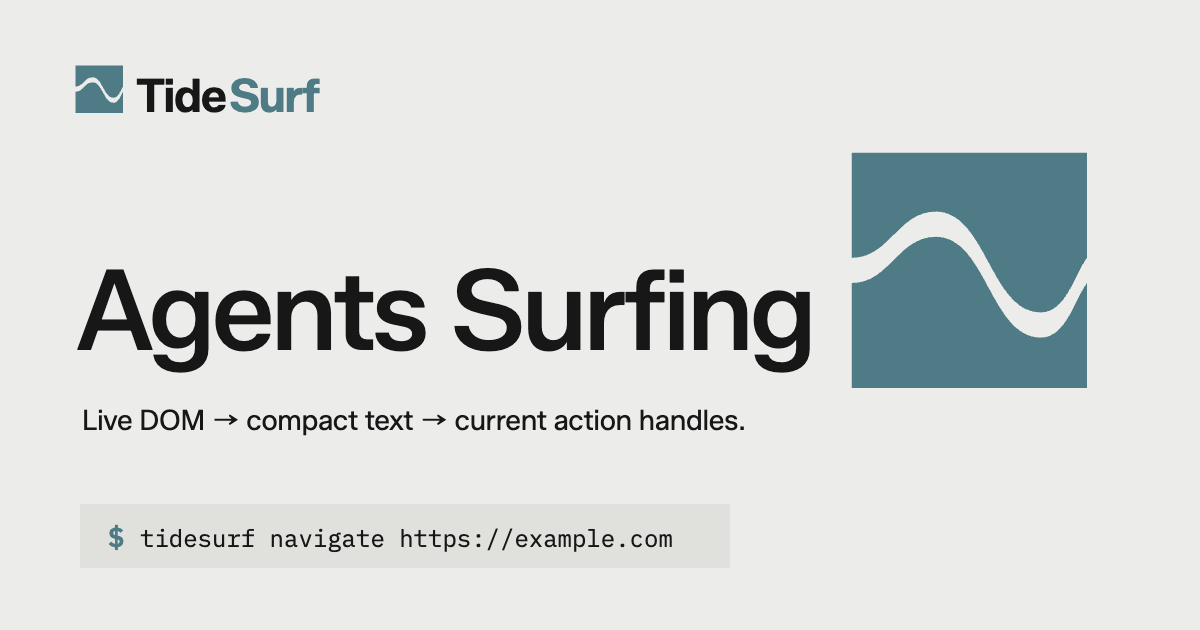
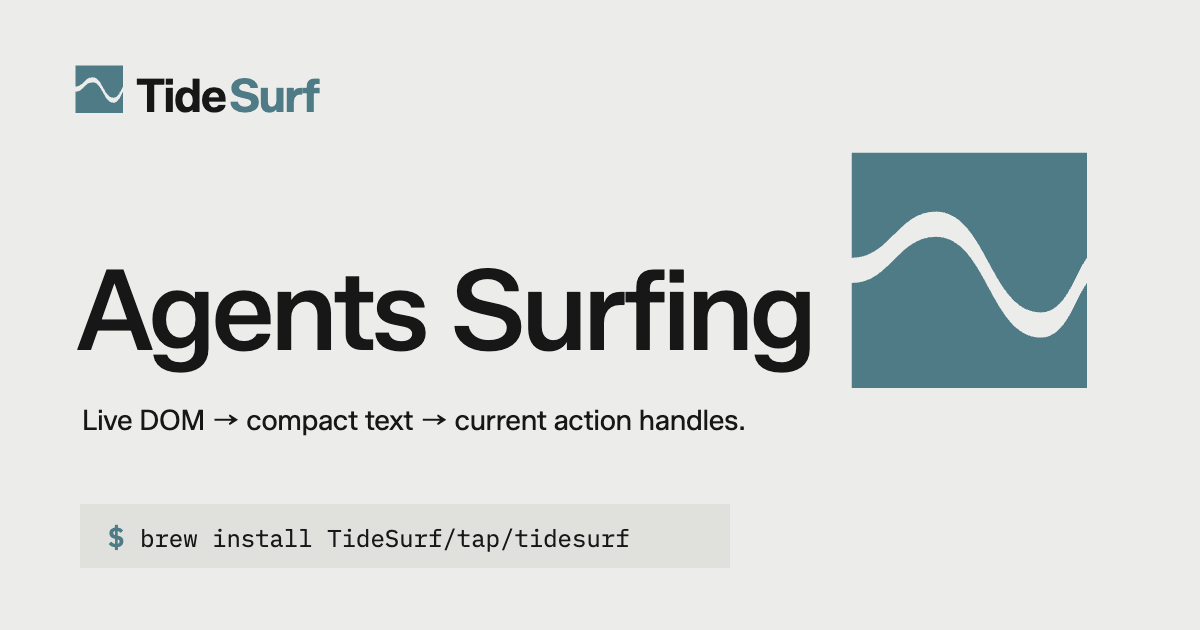
design(landing)+perf(docs): install-first hero, docs pre-rendering
Landing: the hero command now targets future users, cycling the
Homebrew, npm, and Bun install commands with a paused-on-hover roll and
a brand-hued rainbow halo on hover, tuned per theme and disabled under
reduced motion. The copy button always copies the visible command, and
the social preview shows the Homebrew install. check-doc-sync pins the
brew-led hero and requires the rotation to carry the canonical install
commands.

Docs: markdown compiles to HTML at build time through a Vite plugin, so
the client ships no parser and pages render without parse work; search
runs over plain text derived from the rendered pages. The bundle drops
from 55.7 to 45.9 KB gzipped. Font loading now includes the 600 weight
the docs brand uses, and the landing stops requesting the unused Gothic
A1 family.

Also removes a joke comment in version.ts and normalizes comment prose.

Claude-Session: https://claude.ai/code/session_01VjpEq9hvJBtS6FgV6f6NAM

Changed region(s): [[0.0925, 0.8444, 0.555, 0.8746]]

diff --git a/website/docs/src/main.ts b/website/docs/src/main.ts
@@ -1,4 +1,3 @@
-import { marked } from "marked";
 import "./style.css";
 import { initScrollTone } from "../../shared/scroll-tone";
 import { initTheme, prefersReducedMotion, safeStorageGet, safeStorageSet } from "../../shared/theme";
@@ -87,6 +86,21 @@ const mobileMedia = window.matchMedia(MOBILE_QUERY);
 let currentLang: Language = "en";
 let currentPageName = DEFAULT_PAGE;
 let pageMap: Record<string, string> = {};
+let searchIndex: Record<string, { title: string; text: string }> | null = null;
+
+function ensureSearchIndex(): Record<string, { title: string; text: string }> {
+  if (searchIndex) return searchIndex;
+  const parser = new DOMParser();
+  const index: Record<string, { title: string; text: string }> = {};
+  Object.entries(pageMap).forEach(([name, html]) => {
+    const doc = parser.parseFromString(html, "text/html");
+    const title = doc.querySelector("h1")?.textContent?.trim() || name;
+    const text = (doc.body.textContent ?? "").replace(/\s+/g, " ").trim();
+    index[name] = { title, text };
+  });
+  searchIndex = index;
+  return index;
+}
 let tocScrollFrame = 0;
 let initialNavigation = true;
 let removeTocTracking: (() => void) | null = null;
@@ -115,7 +129,7 @@ function translate(key: string): string {
 async function loadContent(): Promise<void> {
   const modules = import.meta.glob("../content/*.md", {
     eager: true,
-    query: "?raw",
+    query: "?html",
     import: "default",
   });
 
@@ -364,14 +378,13 @@ function renderMissingPage(): void {
 }
 
 function renderPage(pageName: string): void {
-  const markdown = pageMap[pageName];
-  if (!markdown) {
+  const html = pageMap[pageName];
+  if (!html) {
     renderMissingPage();
     return;
   }
 
   currentPageName = pageName;
-  const html = marked.parse(markdown, { async: false }) as string;
   contentEl.replaceChildren(sanitizeHtmlFragment(html));
   contentEl.setAttribute("aria-busy", "false");
   contentEl.lang = "en";
@@ -489,22 +502,16 @@ function initSearch(): void {
     }
 
     const matches: SearchEntry[] = [];
-    Object.entries(pageMap).forEach(([name, markdown]) => {
-      const lower = markdown.toLowerCase();
+    Object.entries(ensureSearchIndex()).forEach(([name, page]) => {
+      const lower = page.text.toLowerCase();
       const index = lower.indexOf(query);
       if (index < 0) return;
 
-      const title = markdown.match(/^#\s+(.+)/m)?.[1] ?? name;
       const start = Math.max(0, index - 42);
-      const end = Math.min(markdown.length, index + query.length + 72);
-      const body = markdown
-        .slice(start, end)
-        .replace(/<[^>]+>/g, " ")
-        .replace(/[#*`_>\n]/g, " ")
-        .replace(/\s+/g, " ")
-        .trim();
-      const snippet = `${start > 0 ? "…" : ""}${body}${end < markdown.length ? "…" : ""}`;
-      matches.push({ name, title, snippet });
+      const end = Math.min(page.text.length, index + query.length + 72);
+      const body = page.text.slice(start, end).trim();
+      const snippet = `${start > 0 ? "…" : ""}${body}${end < page.text.length ? "…" : ""}`;
+      matches.push({ name, title: page.title, snippet });
     });
     renderSearchResults(results, matches);
   });

diff --git a/website/landing/src/style.css b/website/landing/src/style.css
@@ -119,7 +119,7 @@ pre {
   font-size: 0.86rem;
 }
 
-/* Optical lift: the all-lowercase npm wordmark reads ~1px low next to cap-height labels. */
+/* Optical lift: the lowercase npm wordmark sits one pixel low next to cap-height labels. */
 .topnav-links a[href*="npmjs"],
 .footer-links a[href*="npmjs"] {
   padding-block: calc(0.2rem - 1px) calc(0.2rem + 1px);
@@ -218,7 +218,88 @@ pre {
   gap: 0.65rem;
   padding-left: 0.9rem;
   color: var(--ink);
-  background: color-mix(in srgb, var(--paper-2) 86%, transparent);
+  position: relative;
+  isolation: isolate;
+}
+
+/* Backdrop sits above the glow so the halo shows only at the edges. */
+.install::after {
+  content: "";
+  position: absolute;
+  inset: 0;
+  z-index: -1;
+  background: color-mix(in srgb, var(--paper-2) 92%, transparent);
+}
+
+/* Hover halo: brand-hued rainbow ring behind the install command. */
+@property --glow-angle {
+  syntax: "<angle>";
+  inherits: false;
+  initial-value: 0deg;
+}
+
+.install::before {
+  content: "";
+  position: absolute;
+  inset: -6px;
+  z-index: -1;
+  background: conic-gradient(
+    from var(--glow-angle),
+    var(--c-rust),
+    var(--c-gold),
+    var(--c-green),
+    var(--c-teal),
+    #6e56cf,
+    var(--c-rust)
+  );
+  filter: blur(8px) saturate(170%);
+  opacity: 0;
+  transition: opacity 240ms ease;
+}
+
+.install:hover::before,
+.install:focus-within::before {
+  opacity: 0.9;
+  animation: glow-spin 3.5s linear infinite;
+}
+
+[data-theme="light"] .install::before {
+  mix-blend-mode: multiply;
+  filter: blur(8px) saturate(220%);
+}
+
+@keyframes glow-spin {
+  to {
+    --glow-angle: 360deg;
+  }
+}
+
+.install code {
+  display: inline-block;
+  transition: transform 190ms ease-out, opacity 190ms ease-out;
+}
+
+.install code.roll-out {
+  transform: translateY(-0.6em);
+  opacity: 0;
+  transition: transform 190ms ease-in, opacity 190ms ease-in;
+}
+
+.install code.roll-in {
+  transform: translateY(0.6em);
+  opacity: 0;
+  transition: none;
+}
+
+@media (prefers-reduced-motion: reduce), (prefers-reduced-data: reduce) {
+  .install::before {
+    animation: none;
+  }
+
+  .install code,
+  .install code.roll-out {
+    transition: none;
+  }
 }
 
 .install .prompt {

diff --git a/website/landing/index.html b/website/landing/index.html
@@ -24,7 +24,7 @@
         <link rel="preconnect" href="https://fonts.googleapis.com" />
         <link rel="preconnect" href="https://fonts.gstatic.com" crossorigin />
         <link
-            href="https://fonts.googleapis.com/css2?family=Zalando+Sans:wght@400;500;600&family=Gothic+A1:wght@400;500;600&family=IBM+Plex+Mono:wght@400;500&display=swap"
+            href="https://fonts.googleapis.com/css2?family=Zalando+Sans:wght@400;500;600&family=IBM+Plex+Mono:wght@400;500&display=swap"
             rel="stylesheet"
         />
         <link rel="icon" type="image/svg+xml" href="/favicon.svg" />
@@ -57,8 +57,8 @@
                 <div class="hero-actions" aria-label="Primary actions">
                     <div class="install">
                         <span class="prompt" aria-hidden="true">$</span>
-                        <code id="install-command-text">tidesurf navigate https://example.com</code>
-                        <button type="button" class="copy-btn patch-control" id="install-copy-btn" data-copy="tidesurf navigate https://example.com" aria-label="Copy CLI command">
+                        <code id="install-command-text">brew install TideSurf/tap/tidesurf</code>
+                        <button type="button" class="copy-btn patch-control" id="install-copy-btn" data-copy="brew install TideSurf/tap/tidesurf" aria-label="Copy install command">
                             <svg class="icon-copy" viewBox="0 0 16 16" width="15" height="15" fill="none" stroke="currentColor" stroke-width="1.5" stroke-linecap="round" stroke-linejoin="round" aria-hidden="true"><rect x="5.5" y="5.5" width="8" height="8" rx="1.5"/><path d="M3.5 10.5H3a1 1 0 0 1-1-1V3a1 1 0 0 1 1-1h6.5a1 1 0 0 1 1 1v.5"/></svg>
                             <svg class="icon-check" viewBox="0 0 16 16" width="15" height="15" fill="none" stroke="currentColor" stroke-width="1.8" stroke-linecap="round" stroke-linejoin="round" aria-hidden="true"><path d="M3.5 8.5l3 3 6-6.5"/></svg>
                             <span class="copy-status visually-hidden" aria-live="polite"></span>

diff --git a/website/landing/src/main.ts b/website/landing/src/main.ts
@@ -2,6 +2,44 @@ import "./style.css";
 import { initScrollTone } from "../../shared/scroll-tone";
 import { initTheme, prefersReducedMotion, reducedMotionQuery } from "../../shared/theme";
 
+const INSTALL_COMMANDS = [
+  "brew install TideSurf/tap/tidesurf",
+  "npm install --global @tidesurf/core",
+  "bun add --global @tidesurf/core",
+];
+
+function initInstallRotator(): void {
+  const box = document.querySelector<HTMLElement>(".install");
+  const text = document.getElementById("install-command-text");
+  const copy = document.querySelector<HTMLButtonElement>("#install-copy-btn");
+  if (!box || !text || !copy || prefersReducedMotion()) return;
+
+  let index = 0;
+  let paused = false;
+  const setPaused = (value: boolean) => () => {
+    paused = value;
+  };
+  box.addEventListener("pointerenter", setPaused(true));
+  box.addEventListener("pointerleave", setPaused(false));
+  box.addEventListener("focusin", setPaused(true));
+  box.addEventListener("focusout", setPaused(false));
+
+  setInterval(() => {
+    if (paused || document.hidden) return;
+    index = (index + 1) % INSTALL_COMMANDS.length;
+    const next = INSTALL_COMMANDS[index];
+    text.classList.add("roll-out");
+    setTimeout(() => {
+      text.textContent = next;
+      copy.dataset.copy = next;
+      text.classList.remove("roll-out");
+      text.classList.add("roll-in");
+      void text.offsetHeight;
+      text.classList.remove("roll-in");
+    }, 190);
+  }, 3200);
+}
+
 function initCopyButtons(): void {
   document.querySelectorAll<HTMLButtonElement>("[data-copy]").forEach((button) => {
     button.addEventListener("click", async () => {
@@ -261,6 +299,7 @@ function init(): void {
   initTheme();
   initScrollTone();
   initCopyButtons();
+  initInstallRotator();
   initWaves();
 }
 

diff --git a/website/docs/vite.config.ts b/website/docs/vite.config.ts
@@ -1,4 +1,21 @@
-import { defineConfig } from "vite";
+import { readFileSync } from "node:fs";
+import { defineConfig, type Plugin } from "vite";
+import { marked } from "marked";
+
+const HTML_QUERY = "?html";
+
+/* Markdown compiles to HTML at build time; the client ships no parser. */
+function markdownToHtml(): Plugin {
+  return {
+    name: "tidesurf:markdown-to-html",
+    enforce: "pre",
+    load(id) {
+      if (!id.endsWith(`.md${HTML_QUERY}`)) return null;
+      const markdown = readFileSync(id.slice(0, -HTML_QUERY.length), "utf8");
+      return `export default ${JSON.stringify(marked.parse(markdown, { async: false }))};`;
+    },
+  };
+}
 
 export default defineConfig({
   root: ".",
@@ -7,4 +24,5 @@ export default defineConfig({
     outDir: "dist",
   },
   assetsInclude: ["**/*.md"],
+  plugins: [markdownToHtml()],
 });

diff --git a/scripts/check-doc-sync.ts b/scripts/check-doc-sync.ts
@@ -459,9 +459,16 @@ const hero = landingHtml.match(/<h1 id="hero-title">([^<]+)<\/h1>/)?.[1];
 const heroCommand = landingHtml.match(/data-copy="([^"]+)"/)?.[1];
 check(hero === "Agents Surfing", "landing hero must be exactly Agents Surfing");
 check(
-  heroCommand === "tidesurf navigate https://example.com",
-  "landing command must use the installed TideSurf CLI"
+  heroCommand === "brew install TideSurf/tap/tidesurf",
+  "landing command must lead with the canonical Homebrew install"
 );
+const landingMain = read("website/landing/src/main.ts");
+for (const command of installCommands) {
+  check(
+    landingMain.includes(`"${command}"`),
+    `landing install rotation must include: ${command}`
+  );
+}
 for (const value of [
   hero,
   "Live DOM → compact text → current action handles.",

diff --git a/website/landing/public/og.html b/website/landing/public/og.html
@@ -26,7 +26,7 @@
     </g>
     <rect x="80" y="504" width="650" height="64" fill="#E0E1DD"/>
     <text x="108" y="547" fill="#4F7B86" font-family="'IBM Plex Mono',ui-monospace,monospace" font-weight="600" font-size="27">$</text>
-    <text x="140" y="547" fill="#161716" font-family="'IBM Plex Mono',ui-monospace,monospace" font-size="24">tidesurf navigate https://example.com</text>
+    <text x="140" y="547" fill="#161716" font-family="'IBM Plex Mono',ui-monospace,monospace" font-size="24">brew install TideSurf/tap/tidesurf</text>
     <g transform="translate(835 136) scale(4.2)">
       <path fill="#4F7B86" fill-rule="evenodd" d="M4 4H60V60H4ZM4 29C13 29 15 18 24 18C36 18 37 42 49 42C55 42 57 33 60 29V35C57 39 55 48 49 48C37 48 36 24 24 24C15 24 13 35 4 35Z"/>
     </g>

diff --git a/website/docs/index.html b/website/docs/index.html
@@ -20,7 +20,7 @@
     <meta name="twitter:image" content="https://tidesurf.org/og.png" />
     <link rel="preconnect" href="https://fonts.googleapis.com" />
     <link rel="preconnect" href="https://fonts.gstatic.com" crossorigin />
-    <link href="https://fonts.googleapis.com/css2?family=Zalando+Sans:wght@400;500&family=Gothic+A1:wght@400;500&family=IBM+Plex+Mono:wght@400;500&display=swap" rel="stylesheet" />
+    <link href="https://fonts.googleapis.com/css2?family=Zalando+Sans:wght@400;500;600&family=Gothic+A1:wght@400;500&family=IBM+Plex+Mono:wght@400;500&display=swap" rel="stylesheet" />
     <link rel="icon" type="image/svg+xml" href="/favicon.svg" />
     <script src="/theme-init.js"></script>
   </head>

diff --git a/src/version.ts b/src/version.ts
@@ -1,1 +1,1 @@
-export const VERSION = "0.6.1"; // if you're reading this then wish you a good luck
+export const VERSION = "0.6.1";
